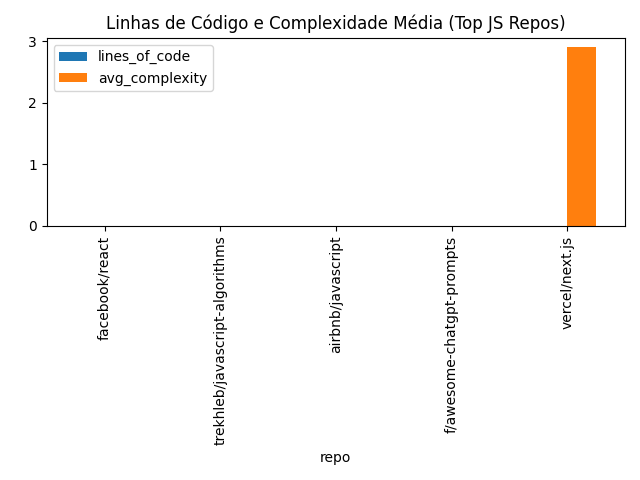
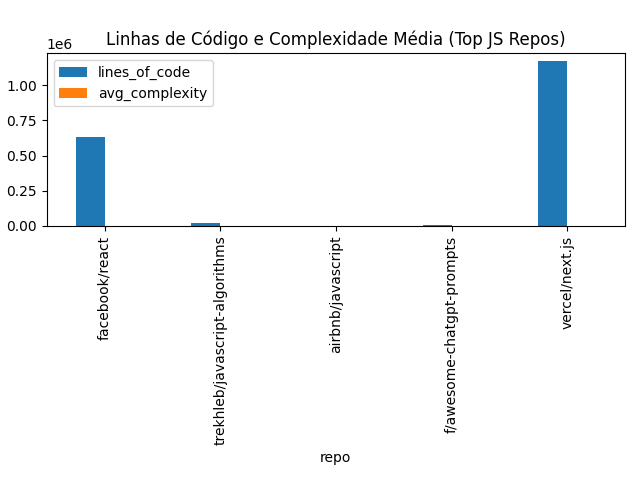
fix: corrigido o script no qual não encontrava as dependencias]

diff --git a/app/scripts/metrics.py b/app/scripts/metrics.py
@@ -4,52 +4,101 @@ import zipfile
 import requests
 import json
 from scripts.utils import run_command
+from pygount import ProjectSummary
+
 
 def download_and_extract(repo, token):
+    """Baixa o repositório em ZIP e retorna o caminho da pasta extraída."""
     headers = {"Authorization": f"token {token}"}
     response = requests.get(repo["download_url"], headers=headers)
     response.raise_for_status()
 
     temp_dir = tempfile.mkdtemp()
     zip_path = os.path.join(temp_dir, "repo.zip")
-
     with open(zip_path, "wb") as f:
         f.write(response.content)
 
     with zipfile.ZipFile(zip_path, "r") as zip_ref:
         zip_ref.extractall(temp_dir)
-    return temp_dir
+
+    extracted_folders = [
+        os.path.join(temp_dir, i)
+        for i in os.listdir(temp_dir)
+        if os.path.isdir(os.path.join(temp_dir, i))
+    ]
+
+    return extracted_folders[0] if extracted_folders else temp_dir
+
+
+def count_loc_fallback(repo_path):
+    """Conta linhas manualmente em arquivos .js (fallback)."""
+    count = 0
+    for root, _, files in os.walk(repo_path):
+        for f in files:
+            if f.endswith(".js"):
+                try:
+                    with open(os.path.join(root, f), "r", encoding="utf-8", errors="ignore") as file:
+                        count += sum(1 for _ in file)
+                except Exception:
+                    pass
+    return count
+
+
+def find_package_json_files(root_dir):
+    """Busca todos os package.json no repositório."""
+    matches = []
+    for root, _, files in os.walk(root_dir):
+        for f in files:
+            if f == "package.json":
+                matches.append(os.path.join(root, f))
+    return matches
+
 
 def get_metrics(repo, token):
-    temp_dir = download_and_extract(repo, token)
-    metrics = {"repo": repo["name"], "stars": repo["stars"], "forks": repo["forks"], "size_kb": repo["size_kb"]}
+    """Calcula métricas do repositório (LOC, complexidade, dependências)."""
+    repo_path = download_and_extract(repo, token)
+    metrics = {
+        "repo": repo["name"],
+        "stars": repo["stars"],
+        "forks": repo["forks"],
+        "size_kb": repo["size_kb"],
+    }
 
-    # Linhas de código
+    # 1⃣ Linhas de código (pygount com fallback)
     try:
-        cloc_output = run_command("cloc . --json --quiet", cwd=temp_dir)
-        cloc_data = json.loads(cloc_output)
-        metrics["lines_of_code"] = cloc_data.get("JavaScript", {}).get("code", 0)
-    except Exception:
-        metrics["lines_of_code"] = 0
+        summary = ProjectSummary.from_dir(repo_path, "utf-8")
+        total_loc = sum([e.code_count for e in summary.entries if e.language == "JavaScript"])
+        metrics["lines_of_code"] = total_loc
+    except Exception as e:
+        metrics["lines_of_code"] = count_loc_fallback(repo_path)
+        print(f"⚠ Erro ao calcular LOC (pygount) em {repo['name']}: {e}")
 
-    # Complexidade (radon)
+    # 2⃣ Complexidade ciclomática (radon)
     try:
-        radon_output = run_command("radon cc . -s -j", cwd=temp_dir)
+        radon_output = run_command("python -m radon cc . -s -j", cwd=repo_path)
+        if not radon_output.strip():
+            raise ValueError("radon output vazio")
         radon_data = json.loads(radon_output)
         complexities = [i["complexity"] for f in radon_data.values() for i in f]
         metrics["avg_complexity"] = sum(complexities) / len(complexities) if complexities else 0
-    except Exception:
+    except Exception as e:
         metrics["avg_complexity"] = 0
+        print(f"⚠ radon falhou em {repo['name']}: {e}")
 
-    # Dependências
-    pkg_path = os.path.join(temp_dir, "package.json")
-    if os.path.exists(pkg_path):
-        try:
-            pkg = json.load(open(pkg_path, "r", encoding="utf-8"))
-            metrics["dependencies"] = len(pkg.get("dependencies", {}))
-        except:
-            metrics["dependencies"] = 0
-    else:
+    # 3⃣ Dependências (procura todos os package.json)
+    try:
+        pkg_files = find_package_json_files(repo_path)
+        total_deps = 0
+        for pkg_path in pkg_files:
+            try:
+                with open(pkg_path, "r", encoding="utf-8") as f:
+                    pkg = json.load(f)
+                    total_deps += len(pkg.get("dependencies", {}))
+            except Exception:
+                pass
+        metrics["dependencies"] = total_deps
+    except Exception as e:
         metrics["dependencies"] = 0
+        print(f"⚠ Erro ao ler dependências em {repo['name']}: {e}")
 
     return metrics

diff --git a/app/scripts/utils.py b/app/scripts/utils.py
@@ -3,7 +3,15 @@ import json
 import os
 
 def run_command(command, cwd=None):
-    result = subprocess.run(command, shell=True, capture_output=True, text=True, cwd=cwd)
+    result = subprocess.run(
+        command,
+        shell=True,
+        capture_output=True,
+        text=True,
+        cwd=cwd,
+    )
+    if result.returncode != 0:
+        print(f"⚠ Erro ao executar '{command}' em {cwd}:\n{result.stderr}")
     return result.stdout.strip()
 
 def save_json(filepath, data):
